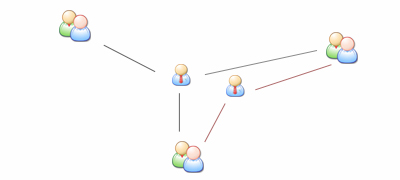
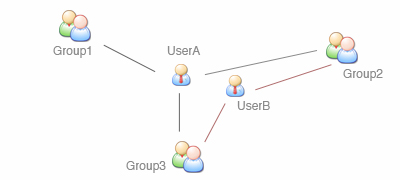
modify README.md: add pct

diff --git a/README.md b/README.md
@@ -34,10 +34,13 @@
 * フォルダと同様に、グループもフラット構造
 * ユーザーは複数のグループに属することができる
 
-![flat structure](https://github.com/koyonote/password_app/raw/master/screenshot/user_group.jpg "tree flat")
+![user group](https://github.com/koyonote/password_app/raw/master/screenshot/user_group.jpg "user group")
 
 * グループは必要なだけ作ることができ、フォルダにフィルタを掛ける際に威力を発揮する
 * 各ユーザーは、3種のロールによって権限が異なる（詳しくは、Roles を参照下さい）
+
+![user pyramid](https://github.com/koyonote/password_app/raw/master/screenshot/pyramid.jpg "user pyramid")
+
 
 ## Roles
 各ユーザーには、下記3種類のロールのいずれかを与えます. ロールごとの権限を表に示します.
